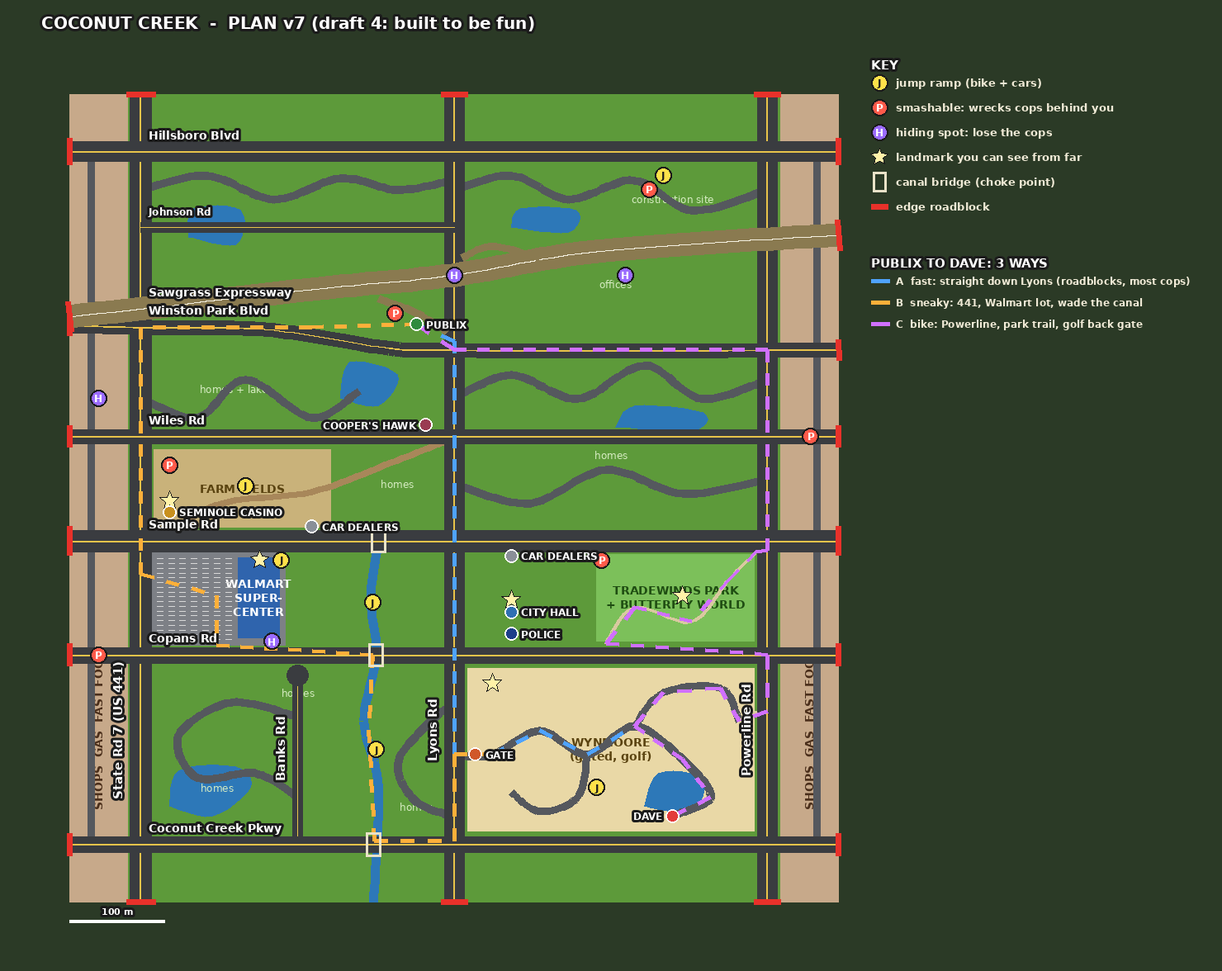
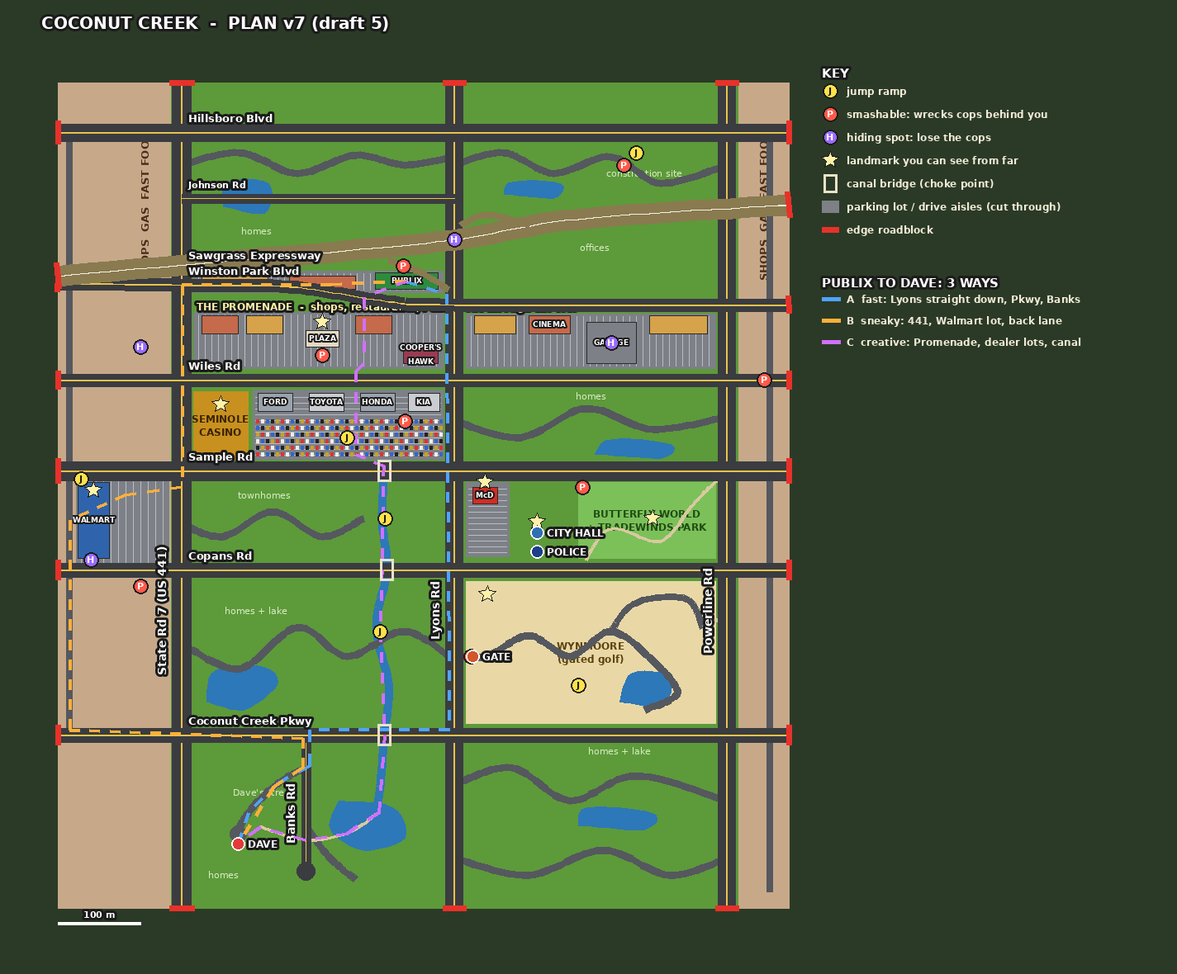
city-clone: plan v7 draft 5 (Walmart west of 441, Banks south of the Pkwy with Dave, car dealers, the Promenade, McDonald's at Sample & Lyons)
Claude-Session: https://claude.ai/code/session_01QbDoFPGu5z24oXZd8dk3Jx

diff --git a/city-clone/plan/v7/plan_v7.py b/city-clone/plan/v7/plan_v7.py
@@ -1,15 +1,17 @@
 """City plan v7 (round 37): the whole city re-laid from the user's description of the real Coconut Creek road grid + their Google Maps screenshots.
-The real city is long and skinny (~3 km x 9 km); the game keeps the real ORDER of roads but squares it up, then takes liberties so it is fun to drive.
-Draft 3 (user): Hammock Blvd removed; west of 441 and east of Powerline a strip of shops / gas / fast food, then roadblocks (the edge of the world);
-liberties L1..L8 are numbered so the user can keep or cut each one.
+The real city is long and skinny; the game keeps the real ORDER of roads, squares it up, then takes liberties so it is fun to drive (research: RESEARCH.md).
+Draft 5 (user): Walmart WEST of 441 (south of Sample); Banks Rd runs SOUTH off Coconut Creek Pkwy and Dave lives off it; car dealers fill the Sample-Wiles band
+west of Lyons (casino stays at 441 & Sample); Cooper's Hawk stays (restaurant row); the whole Wiles-to-Sawgrass band is THE PROMENADE (lots of shops, Publix at
+the NW corner of Lyons & Winston Park); McDonald's on the corner of Sample & Lyons in the City Hall block; Butterfly World. The fun is cutting through the parking
+aisles and drive lanes around the buildings.
 Coordinates in metres: x east, y north, origin = Lyons Rd at Coconut Creek Pkwy. Run: python3 plan_v7.py -> plan_v7.png"""
 from PIL import Image, ImageDraw, ImageFont
 import math, os
 
-X441, XBANKS, XLYONS, XPOWER = -330, -165, 0, 330
+X441, XBANKS, XLYONS, XPOWER = -330, -180, 0, 330
 Y = dict(pkwy=0, copans=200, sample=320, wiles=430, winston=525, johnson=650, hillsboro=730)
-EDGE = 75                                                     # how far the roads run past the outer roads before the edge roadblocks (the shop strips sit in there)
-def curve(pts, n=12):                                         # Catmull-Rom smoothing so curved roads read as curves
+XW, XE, YS, YN = X441 - 150, XPOWER + 75, -210, Y["hillsboro"] + 60          # west strip is wider (Walmart lives there); south band holds Banks Rd + Dave
+def curve(pts, n=12):
     out = []
     for i in range(len(pts) - 1):
         p0, p1, p2, p3 = pts[max(0, i - 1)], pts[i], pts[i + 1], pts[min(len(pts) - 1, i + 2)]
@@ -17,86 +19,85 @@ def curve(pts, n=12):                                         # Catmull-Rom smoo
             t = k / n; t2, t3 = t * t, t * t * t
             out.append(tuple(.5 * ((2 * p1[j]) + (-p0[j] + p2[j]) * t + (2 * p0[j] - 5 * p1[j] + 4 * p2[j] - p3[j]) * t2 + (-p0[j] + 3 * p1[j] - 3 * p2[j] + p3[j]) * t3) for j in (0, 1)))
     out.append(pts[-1]); return out
-XW, XE, YS, YN = X441 - EDGE, XPOWER + EDGE, Y["pkwy"] - 60, Y["hillsboro"] + 60
-# ---- roads: name, polyline, width m, kind: art (arterial), col (collector), hwy (expressway), loc (neighbourhood street), dirt, trail ----
+SAW = curve([(XW, 556), (-150, 585), (XLYONS, 600), (150, 625), (XE, 642)])
+# ---- roads: name, polyline, width m, kind ----
 ROADS = [
     ("State Rd 7 (US 441)", [(X441, YS), (X441, YN)], 24, "art"),
-    ("Banks Rd", [(XBANKS, Y["pkwy"]), (XBANKS, 178)], 12, "col"),            # user: only reachable from Coconut Creek Pkwy (a dead end with a cul-de-sac)
     ("Lyons Rd", [(XLYONS, YS), (XLYONS, YN)], 22, "art"),
     ("Powerline Rd", [(XPOWER, YS), (XPOWER, YN)], 22, "art"),
+    ("Banks Rd", [(XBANKS, Y["pkwy"]), (XBANKS, -165)], 12, "col"),          # user: you turn SOUTH off the Pkwy onto Banks; Dave lives off it (dead end)
     ("Coconut Creek Pkwy", [(XW, Y["pkwy"]), (XE, Y["pkwy"])], 18, "art"),
     ("Copans Rd", [(XW, Y["copans"]), (XE, Y["copans"])], 18, "art"),
     ("Sample Rd", [(XW, Y["sample"]), (XE, Y["sample"])], 24, "art"),
     ("Wiles Rd", [(XW, Y["wiles"]), (XE, Y["wiles"])], 16, "art"),
     ("Winston Park Blvd", curve([(XW, Y["winston"] + 22), (X441, Y["winston"] + 20), (-200, Y["winston"] + 18), (-80, Y["winston"]), (XLYONS, Y["winston"] - 4), (XE, Y["winston"] - 4)]), 16, "art"),
-    ("Sawgrass Expressway", curve([(XW, 556), (-150, 585), (XLYONS, 600), (150, 625), (XE, 642)]), 26, "hwy"),
+    ("Sawgrass Expressway", SAW, 26, "hwy"),
     ("Johnson Rd", [(X441, Y["johnson"]), (XLYONS, Y["johnson"])], 12, "col"),
     ("Hillsboro Blvd", [(XW, Y["hillsboro"]), (XE, Y["hillsboro"])], 22, "art"),
-    # shop strips: a service lane behind the shops on each side (L1)
-    ("", [(X441 - 52, Y["pkwy"]), (X441 - 52, Y["hillsboro"])], 8, "loc"),
-    ("", [(XPOWER + 52, Y["pkwy"]), (XPOWER + 52, Y["hillsboro"])], 8, "loc"),
-    # L2 farm-field dirt track: casino corner to Lyons & Wiles, cutting the corner
-    ("", curve([(-300, Y["sample"] + 8), (-245, 360), (-150, 372), (-60, 405), (-12, Y["wiles"] - 6)]), 7, "dirt"),
-    # L3 neighbourhood loops: curvy streets that link two arterials (shortcuts and hiding places)
-    ("", curve([(XLYONS, 150), (-30, 125), (-60, 85), (-40, 45), (XLYONS, 30)]), 9, "loc"),
-    ("", curve([(XBANKS, 50), (-210, 75), (-270, 70), (-290, 115), (-235, 150), (XBANKS, 135)]), 9, "loc"),
-    ("", curve([(XLYONS, 470), (60, 495), (130, 470), (200, 505), (260, 470), (XPOWER, 490)]), 9, "loc"),
-    ("", curve([(X441, 470), (-270, 450), (-220, 490), (-150, 450), (-100, 478)]), 9, "loc"),
+    # back lanes behind the shop strips
+    ("", [(XW + 14, Y["pkwy"]), (XW + 14, Y["hillsboro"])], 8, "loc"),
+    ("", [(XPOWER + 52, YS + 20), (XPOWER + 52, Y["hillsboro"])], 8, "loc"),
+    # neighbourhood streets
+    ("", curve([(X441, 110), (-260, 80), (-190, 130), (-130, 95), (-60, 125), (XLYONS, 90)]), 9, "loc"),          # 441 <-> Lyons, fords the canal
+    ("", curve([(X441, 255), (-280, 240), (-220, 270), (-160, 240), (-110, 262)]), 9, "loc"),
+    ("", curve([(XLYONS, 380), (80, 360), (160, 395), (240, 370), (XPOWER, 385)]), 9, "loc"),
     ("", curve([(XLYONS, 690), (60, 705), (120, 680), (190, 700), (250, 668), (XPOWER, 690)]), 9, "loc"),
     ("", curve([(X441, 690), (-260, 705), (-190, 680), (-120, 702), (-60, 690), (XLYONS, 700)]), 9, "loc"),
-    ("", curve([(XLYONS, 380), (80, 360), (160, 395), (240, 370), (XPOWER, 385)]), 9, "loc"),
-    # L5 Tradewinds park trail: narrow, bikes squeeze through, cars barely
-    ("", curve([(160, Y["copans"] + 12), (190, 250), (250, 235), (290, 280), (318, Y["sample"] - 12)]), 4, "trail"),
-    # L6 Wynmoore: one gated entrance off Lyons, winding streets, Dave at the far end
+    # south band: Dave's street off Banks (a loop with a cul-de-sac) + the east neighbourhood
+    ("", curve([(XBANKS, -40), (-215, -60), (-250, -95), (-262, -120)]), 9, "loc"),
+    ("", curve([(XBANKS, -110), (-150, -150), (-120, -175)]), 9, "loc"),
+    ("", curve([(XLYONS, -60), (70, -40), (140, -80), (220, -50), (XPOWER, -80)]), 9, "loc"),
+    ("", curve([(XLYONS, -150), (90, -170), (180, -140), (260, -170), (XPOWER, -150)]), 9, "loc"),
+    # trails (bike fits, cars barely)
+    ("", curve([(160, Y["copans"] + 12), (190, 250), (250, 235), (290, 280), (318, Y["sample"] - 12)]), 4, "trail"),   # Tradewinds / Butterfly World
+    ("", curve([(-92, -95), (-130, -120), (-180, -128), (-235, -112)]), 4, "trail"),                                 # lake path to Dave's street
+    ("", curve([(XPOWER, 140), (316, 138), (300, 130)]), 5, "trail"),                                                # Wynmoore golf-cart back gate
+    # Wynmoore streets (gated golf community, one gate on Lyons)
     ("", curve([(XLYONS, 95), (40, 95), (90, 120), (140, 95), (190, 125), (240, 90), (270, 50), (230, 30)]), 9, "loc"),
-    ("", curve([(140, 95), (130, 50), (90, 35), (60, 55)]), 8, "loc"),
     ("", curve([(190, 125), (220, 160), (280, 165), (300, 130)]), 8, "loc"),
-    # L7 Sawgrass on/off ramps at Lyons (the expressway is raised; ramps are the only way on)
-    ("", curve([(-80, 575), (-40, 560), (-8, 540)]), 8, "ramp"),
-    ("", curve([(8, 618), (40, 630), (90, 618)]), 8, "ramp"),
+    # Sawgrass ramps at Lyons
+    ("", curve([(-80, 575), (-40, 560), (-8, 540)]), 8, "ramp"), ("", curve([(8, 618), (40, 630), (90, 618)]), 8, "ramp"),
 ]
-ROADS += [("", [(X441, 235), (-320, 235)], 8, "loc"), ("", [(X441, 285), (-320, 285)], 8, "loc"), ("", [(-290, Y["sample"]), (-290, 310)], 8, "loc")]   # Walmart lot entrances (two off 441, one off Sample)
-ROUNDABOUTS = []
-CULS = [(XBANKS, 178, 11)]
-# ---- draft 4 (research: what makes driving maps fun) ----
-ROADS += [("", curve([(XPOWER, 140), (316, 138), (300, 130)]), 5, "trail")]          # golf-cart back gate into Wynmoore off Powerline (narrow: bikes easy, cars squeeze)
-JUMPS = [(-82, 100), (-86, 255), (-182, 300), (-220, 378), (220, 705), (150, 60)]   # canal banks x2, Walmart loading dock, farm hay-bale ramp, construction site, golf mound
-BREAKERS = [(XPOWER + 45, 430), (X441 - 45, 200), (-300, 400), (205, 690), (155, 300), (-62, 560)]   # gas pumps x2, fruit stand, scaffolding, Butterfly World sign, Publix cart corral
-HIDES = [(X441 - 45, 470), (180, 600), (0, 600), (-192, 214)]                       # car wash, parking garage, under the Sawgrass overpass, Walmart garden centre
-STARS = [(-300, 362), (240, 262), (60, 258), (40, 170), (-205, 300)]                 # casino tower, Butterfly World dome, City Hall clock, Wynmoore water tower, Walmart sign
-BRIDGES = [(-85, Y["pkwy"]), (-82, Y["copans"]), (-80, Y["sample"])]
-ROUTES = [  # Publix -> Dave: three real choices (label, colour, polyline)
-    ("A  fast: straight down Lyons (roadblocks, most cops)", "#4fa3ff", [(-40, 548), (0, 530), (0, 95), (40, 95), (90, 120), (140, 95), (190, 125), (240, 90), (270, 50), (230, 30)]),
-    ("B  sneaky: 441, Walmart lot, wade the canal", "#ffb03a", [(-40, 548), (-150, 545), (-330, 545), (-330, 285), (-250, 262), (-250, 210), (-86, 200), (-90, 120), (-84, 4), (0, 4), (0, 95), (40, 95)]),
-    ("C  bike: Powerline, park trail, golf back gate", "#d070ff", [(-40, 548), (0, 521), (330, 521), (330, 310), (318, 308), (290, 280), (250, 235), (190, 250), (160, 212), (330, 200), (330, 140), (300, 130), (280, 165), (220, 160), (190, 125), (240, 90), (270, 50), (230, 30)]),
+CULS = [(XBANKS, -165, 11), (-262, -120, 10)]
+CANAL = [(-85, Y["sample"]), (-88, 260), (-82, 200), (-95, 130), (-80, 60), (-85, 0), (-90, -60), (-95, -95)]      # Sample -> south of the Pkwy, ends in the lake by Dave's
+def R(x0, y0, x1, y1): return [(x0, y0), (x1, y0), (x1, y1), (x0, y1)]
+ZONES = [  # (label, polygon, fill, text colour) drawn in order
+    ("SHOPS  GAS  FAST FOOD", R(XW, YS, X441 - 14, YN), "#c7a98a", "#4a2e1a"),
+    ("SHOPS  GAS  FAST FOOD", R(XPOWER + 14, YS, XE, YN), "#c7a98a", "#4a2e1a"),
+    ("WYNMOORE\n(gated golf)", R(14, 14, 316, 186), "#e9d8a6", "#5a4310"),
+    ("BUTTERFLY WORLD\n+ TRADEWINDS PARK", R(150, 214, 316, 306), "#7cc05a", "#1f4d12"),
+    ("SEMINOLE\nCASINO", R(-316, 334, -250, 416), "#c8901e", "#3a2405"),
 ]
-# canal (L8): runs north-south between Banks and Lyons from Pkwy to Sample, crossed by bridges on each arterial; you can wade it or jump it on the bike
-CANAL = [(-85, Y["pkwy"] - 60), (-80, 60), (-95, 130), (-82, 200), (-88, 260), (-80, Y["sample"])]
-ZONES = [  # label, polygon, fill, text colour
-    ("", [(-320, 210), (-178, 210), (-178, 310), (-320, 310)], "#7d8086", "#ffffff"),                      # user: Super Walmart on the east side of 441 (front lot along 441), south of Sample
-    ("WALMART\nSUPER-\nCENTER", [(-228, 218), (-184, 218), (-184, 302), (-228, 302)], "#2f64ad", "#ffffff"),
-    ("WYNMOORE\n(gated, golf)", [(14, 14), (316, 14), (316, 186), (14, 186)], "#e9d8a6", "#5a4310"),
-    ("FARM FIELDS", [(-316, 334), (-130, 334), (-130, 416), (-316, 416)], "#c9b27a", "#5a4310"),
-    ("TRADEWINDS PARK\n+ BUTTERFLY WORLD", [(150, 214), (316, 214), (316, 306), (150, 306)], "#7cc05a", "#1f4d12"),
-    ("SHOPS  GAS  FAST FOOD", [(XW, YS), (X441 - 14, YS), (X441 - 14, YN), (XW, YN)], "#c7a98a", "#4a2e1a"),
-    ("SHOPS  GAS  FAST FOOD", [(XPOWER + 14, YS), (XE, YS), (XE, YN), (XPOWER + 14, YN)], "#c7a98a", "#4a2e1a"),
+# parking lots = the cut-through areas: (polygon, buildings [(x0, y0, x1, y1, colour, label)], aisle step, aisle direction)
+LOTS = [
+    (R(XW + 22, 206, X441 - 16, 314), [(XW + 24, 214, XW + 62, 306, "#2f64ad", "WALMART")], 9, "v"),                            # user: Walmart west of 441, giant lot facing 441
+    (R(-244, 334, -14, 418), [(-238, 392, -196, 414, "#9aa3ad", "FORD"), (-176, 392, -134, 414, "#c9ccd1", "TOYOTA"), (-114, 392, -72, 414, "#9aa3ad", "HONDA"), (-56, 392, -18, 414, "#c9ccd1", "KIA")], 7, "h"),   # car dealers
+    (R(-316, 444, -14, 512), [(-306, 486, -262, 508, "#c56a4a", ""), (-252, 486, -208, 508, "#d6a24a", ""), (-180, 470, -140, 490, "#e4d9c2", "PLAZA"), (-120, 486, -76, 508, "#c56a4a", ""), (-62, 450, -20, 470, "#9a3b52", "COOPER'S\nHAWK")], 8, "v"),
+    (R(14, 444, 316, 510), [(24, 486, 74, 508, "#d6a24a", ""), (90, 486, 140, 508, "#c56a4a", "CINEMA"), (160, 450, 220, 500, "#7d8086", "GARAGE"), (236, 486, 306, 508, "#d6a24a", "")], 8, "v"),
+    (R(-316, 536, -14, 562), [(-96, 540, -20, 560, "#2e8b3e", "PUBLIX"), (-200, 540, -120, 556, "#c56a4a", ""), (-306, 540, -226, 556, "#d6a24a", "")], 8, "v"),
+    (R(14, 216, 66, 306), [(22, 280, 52, 300, "#d22d24", "McD")], 7, "h"),                                                      # McDonald's on the corner of Sample & Lyons
 ]
-LAKES = [[(-300, 40), (-255, 30), (-215, 60), (-230, 82), (-290, 78)], [(-120, 470), (-80, 462), (-60, 495), (-110, 508)], [(170, 440), (250, 435), (262, 455), (190, 462)],
-         [(60, 650), (120, 645), (128, 668), (70, 670)], [(200, 40), (250, 35), (262, 70), (215, 75)], [(-280, 640), (-230, 632), (-225, 668), (-275, 670)]]
-SPOTS = [  # label, x, y, colour, side
-    ("PUBLIX", -40, 548, "#2e8b3e", 1), ("POLICE", 60, 222, "#1d3f8a", 1), ("CITY HALL", 60, 245, "#2f6fb3", 1),
-    ("SEMINOLE CASINO", -300, 350, "#c8901e", 1), ("CAR DEALERS", -150, 335, "#8a8f98", 1), ("CAR DEALERS", 60, 304, "#8a8f98", 1),
-    ("COOPER'S HAWK", -30, 442, "#9a3b52", -1), ("GATE", 22, 95, "#d0582a", 1), ("DAVE", 230, 30, "#e33b3b", -1),
+LAKES = [[(-300, 40), (-255, 30), (-215, 60), (-230, 82), (-290, 78)], [(170, 340), (250, 335), (262, 352), (190, 358)], [(60, 655), (120, 650), (128, 668), (70, 670)],
+         [(200, 40), (250, 35), (262, 70), (215, 75)], [(-280, 640), (-230, 632), (-225, 668), (-275, 670)], [(-140, -80), (-75, -88), (-60, -125), (-110, -140), (-150, -115)],
+         [(150, -110), (230, -115), (240, -95), (160, -88)]]
+SPOTS = [("POLICE", 100, 222, "#1d3f8a", 1), ("CITY HALL", 100, 245, "#2f6fb3", 1), ("GATE", 22, 95, "#d0582a", 1), ("DAVE", -262, -132, "#e33b3b", 1)]
+JUMPS = [(-84, 262), (-90, 125), (XW + 28, 310), (220, 705), (150, 60), (-130, 360)]          # canal banks x2, Walmart loading dock, construction site, golf mound, car-carrier ramp at the dealers
+BREAKERS = [(XPOWER + 45, 430), (X441 - 50, 180), (-160, 460), (-60, 380), (-62, 568), (20, 95), (155, 300), (205, 690)]   # gas x2, plaza fountain, dealer cars, cart corral, Wynmoore gate arm, Butterfly World sign, scaffolding
+HIDES = [(X441 - 50, 470), (190, 475), (0, 600), (XW + 40, 212)]                                # car wash, Promenade garage, under the overpass, Walmart garden centre
+STARS = [(-283, 400), (240, 262), (100, 258), (40, 170), (XW + 43, 296), (-160, 500), (37, 306)]   # casino tower, Butterfly World dome, City Hall clock, Wynmoore water tower, Walmart sign, Promenade sign, golden arches
+BRIDGES = [(-85, Y["pkwy"]), (-82, Y["copans"]), (-85, Y["sample"])]
+TXT = [("homes + lake", -240, 150), ("townhomes", -230, 290), ("homes", 165, 410), ("homes", -240, 610), ("construction site", 230, 680), ("offices", 170, 590),
+       ("Dave's street", -232, -70), ("homes + lake", 200, -20), ("homes", -280, -170), ("homes", 90, 610)]
+DAVE = (-262, -132); PUBLIX = (-58, 549)
+ROUTES = [
+    ("A  fast: Lyons straight down, Pkwy, Banks", "#4fa3ff", [PUBLIX, (-10, 534), (-6, 6), (-176, 6), (-176, -38), (-215, -60), (-250, -95), DAVE]),
+    ("B  sneaky: 441, Walmart lot, back lane", "#ffb03a", [PUBLIX, (-150, 545), (X441, 545), (X441, 300), (XW + 80, 290), (XW + 14, 260), (XW + 14, 6), (-184, -4), (-184, -40), (-220, -64), DAVE]),
+    ("C  creative: Promenade, dealer lots, canal", "#d070ff", [PUBLIX, (-110, 530), (-110, 450), (-120, 440), (-120, 340), (-86, 326), (-88, 200), (-90, 125), (-85, 0), (-92, -95), (-130, -120), (-180, -128), (-235, -112), DAVE]),
 ]
-TAGS = [("L1", X441 - 52, 600), ("L1", XPOWER + 52, 600), ("L2", -150, 372), ("L3", -60, 80), ("L3", 130, 470), ("L4", XBANKS, 178), ("L5", 250, 235),
-        ("L6", 190, 125), ("L7", -40, 560), ("L8", -95, 130)]
-RES = [("homes + lakes", -230, 480), ("homes", 165, 410), ("homes", -60, 380), ("homes", -250, 60), ("homes", -40, 40), ("construction site", 230, 680), ("offices", 170, 590), ("homes", -165, 160)]
-LEGEND = ["L1  service lane behind the shop strips", "L2  dirt track across the farm fields", "L3  curvy neighbourhood streets (shortcuts)", "L4  (cut) Banks Rd: dead end, only from the Pkwy",
-          "L5  park trail (bike fits, cars barely)", "L6  Wynmoore: one gate, winding streets, Dave", "L7  Sawgrass raised, on/off ramps at Lyons", "L8  canal with bridges (wade / jump)", "red bars = edge roadblocks"]
 
-S = 1.15; PAD = 50
-X0, X1, Y0, Y1 = XW - 30, XE + 30, YS - 30, YN + 30
-W, H = int((X1 - X0) * S) + 2 * PAD + 380, int((Y1 - Y0) * S) + 2 * PAD + 30
+S = 1.0; PAD = 50
+X0, X1, Y0, Y1 = XW - 20, XE + 20, YS - 30, YN + 20
+W, H = int((X1 - X0) * S) + 2 * PAD + 400, int((Y1 - Y0) * S) + 2 * PAD + 30
 P = lambda x, y: (PAD + (x - X0) * S, PAD + 30 + (Y1 - y) * S)
 def font(sz, bold=True): return ImageFont.truetype("/usr/share/fonts/truetype/dejavu/DejaVuSans-Bold.ttf" if bold else "/usr/share/fonts/truetype/dejavu/DejaVuSans.ttf", sz)
 im = Image.new("RGB", (W, H), "#2b3a26"); d = ImageDraw.Draw(im)
@@ -106,27 +107,33 @@ for (lab, poly, col, tc) in ZONES:
     d.polygon([P(*p) for p in poly], fill=col)
     cx = sum(p[0] for p in poly) / len(poly); cy = sum(p[1] for p in poly) / len(poly)
     if "SHOPS" in lab:
-        t = Image.new("RGBA", (500, 30), (0, 0, 0, 0)); ImageDraw.Draw(t).text((250, 15), lab, fill=tc, font=font(14), anchor="mm"); t = t.rotate(90, expand=True)
-        a, b = P(cx, 120); im.paste(t, (int(a - 15), int(b - 250)), t)
-    else: d.multiline_text(P(cx, cy), lab, fill=tc, font=font(14), anchor="mm", align="center")
-for col_ in range(7):                                         # Walmart parking rows (the lot faces 441)
-    xx = -310 + col_ * 12
-    for yy in range(216, 306, 5): d.line([P(xx - 3, yy), P(xx + 3, yy)], fill="#d8d8d8", width=1)
+        t = Image.new("RGBA", (500, 30), (0, 0, 0, 0)); ImageDraw.Draw(t).text((250, 15), lab, fill=tc, font=font(13), anchor="mm"); t = t.rotate(90, expand=True)
+        a, b = P(cx if cx > 0 else X441 - 45, 640); im.paste(t, (int(a - 15), int(b - 250)), t)
+    else: d.multiline_text(P(cx, cy), lab, fill=tc, font=font(12), anchor="mm", align="center")
+for (poly, blds, step, dirn) in LOTS:
+    d.polygon([P(*p) for p in poly], fill="#7d8086")
+    xs = [p[0] for p in poly]; ys = [p[1] for p in poly]; x0, x1, y0, y1 = min(xs), max(xs), min(ys), max(ys)
+    if dirn == "v":
+        for xx in range(int(x0) + 6, int(x1) - 4, step): d.line([P(xx, y0 + 3), P(xx, y1 - 3)], fill="#b9bcc2", width=1)
+    else:
+        for yy in range(int(y0) + 5, int(y1) - 3, step): d.line([P(x0 + 3, yy), P(x1 - 3, yy)], fill="#b9bcc2", width=1)
+    for (a, b, c, e, col, lab) in blds:
+        d.rectangle([P(a, e), P(c, b)], fill=col, outline="#2b2b2b")
+        if lab: d.multiline_text(P((a + c) / 2, (b + e) / 2), lab, fill="white", font=font(9), anchor="mm", align="center", stroke_width=2, stroke_fill="#1b1b1b")
+for yy in range(340, 386, 8):                                   # dealer lots: rows of cars
+    for xx in range(-240, -16, 6): d.rectangle([P(xx, yy + 2), P(xx + 3.5, yy - 2)], fill=["#d33", "#eee", "#36c", "#222", "#c9a227"][(xx // 6 + yy) % 5])
+pa, pb = P(-316, 519); d.text((pa + 4, pb), "THE PROMENADE  -  shops, restaurants, Publix: cut through the lots", fill="#fff2a8", font=font(12), anchor="lm", stroke_width=3, stroke_fill="#1b1b1b")
 for L in LAKES: d.polygon([P(*p) for p in curve(L + L[:1], 6)], fill="#2d78b8")
 d.line([P(*p) for p in curve(CANAL)], fill="#2d78b8", width=int(10 * S))
-for (lab, x, y) in RES: d.text(P(x, y), lab, fill="#d6ecc2", font=font(12, False), anchor="mm")
-STY = {"art": ("#3a3c40", "#e8c34a"), "col": ("#3a3c40", "#e8c34a"), "hwy": ("#8a7a50", "#f4f0e0"), "loc": ("#55585e", None), "dirt": ("#a8875a", None), "trail": ("#d9c9a0", None), "ramp": ("#8a7a50", None)}
-for kind_pass in (("dirt", "trail", "loc"), ("col", "art"), ("ramp", "hwy")):
+for (lab, x, y) in TXT: d.text(P(x, y), lab, fill="#d6ecc2", font=font(11, False), anchor="mm")
+STY = {"art": ("#3a3c40", "#e8c34a"), "col": ("#3a3c40", "#e8c34a"), "hwy": ("#8a7a50", "#f4f0e0"), "loc": ("#55585e", None), "trail": ("#d9c9a0", None), "ramp": ("#8a7a50", None)}
+for kind_pass in (("trail", "loc"), ("col", "art"), ("ramp", "hwy")):
     for name, pts, w, kind in ROADS:
         if kind not in kind_pass: continue
         c, ln = STY[kind]; d.line([P(*p) for p in pts], fill=c, width=max(3, int(w * S)), joint="curve")
         if ln: d.line([P(*p) for p in pts], fill=ln, width=2 if kind != "col" else 1, joint="curve")
-for x, y, r in CULS:
-    a, b = P(x, y); R = r * S; d.ellipse([a - R, b - R, a + R, b + R], fill="#3a3c40")
-for x, y, r in ROUNDABOUTS:
-    a, b = P(x, y); R = r * S; d.ellipse([a - R, b - R, a + R, b + R], outline="#3a3c40", width=int(10 * S)); d.ellipse([a - R + 8, b - R + 8, a + R - 8, b + R - 8], fill="#7cc05a")
-# edge roadblocks: every road that reaches the edge
-for name, pts, w, kind in ROADS:
+for x, y, r in CULS: a, b = P(x, y); d.ellipse([a - r, b - r, a + r, b + r], fill="#3a3c40" if x == XBANKS else "#55585e")
+for name, pts, w, kind in ROADS:                                # edge roadblocks
     if kind not in ("art", "col", "hwy"): continue
     for q, prev in ((pts[0], pts[1]), (pts[-1], pts[-2])):
         if q[0] in (XW, XE) or q[1] in (YS, YN):
@@ -135,37 +142,36 @@ for name, pts, w, kind in ROADS:
 for name, pts, w, kind in ROADS:
     if not name: continue
     if pts[0][0] == pts[-1][0]:
-        t = Image.new("RGBA", (360, 36), (0, 0, 0, 0)); ImageDraw.Draw(t).text((180, 18), name, fill="white", font=font(15), anchor="mm", stroke_width=3, stroke_fill="#1b1b1b")
-        t = t.rotate(90, expand=True); cx, cy = P(pts[0][0], 120 if name != "Banks Rd" else 100); im.paste(t, (int(cx - t.width / 2 - w * S / 2 - 13), int(cy - t.height / 2)), t)
-    else: OUT(name, P(X441 + 8, (pts[0][1] if kind != "art" or "Winston" not in name else Y["winston"] + 20) + (13 if kind != "hwy" else 21)), 14 if kind != "col" else 12, anchor="ls")
-for (lab, col, pts) in ROUTES:                                 # chase routes, dashed
+        t = Image.new("RGBA", (360, 36), (0, 0, 0, 0)); ImageDraw.Draw(t).text((180, 18), name, fill="white", font=font(14), anchor="mm", stroke_width=3, stroke_fill="#1b1b1b")
+        t = t.rotate(90, expand=True); cx, cy = P(pts[0][0], 150 if name != "Banks Rd" else -95); im.paste(t, (int(cx - t.width / 2 - w * S / 2 - 12), int(cy - t.height / 2)), t)
+    else: OUT(name, P(X441 + 8, (pts[0][1] if "Winston" not in name else Y["winston"] + 20) + (12 if kind != "hwy" else 20)), 13 if kind != "col" else 11, anchor="ls")
+for (lab, col, pts) in ROUTES:
     q = [P(*p) for p in pts]
     for i in range(len(q) - 1):
-        (ax, ay), (bx, by) = q[i], q[i + 1]; L = math.hypot(bx - ax, by - ay); n = max(1, int(L / 14))
-        for k in range(0, n, 2): d.line([(ax + (bx - ax) * k / n, ay + (by - ay) * k / n), (ax + (bx - ax) * min(n, k + 1) / n, ay + (by - ay) * min(n, k + 1) / n)], fill=col, width=5)
-def badge(x, y, txt, fill, fg="#1b1b1b", r=10):
-    cx, cy = P(x, y); d.ellipse([cx - r, cy - r, cx + r, cy + r], fill=fill, outline="#1b1b1b", width=2); d.text((cx, cy), txt, fill=fg, font=font(12), anchor="mm")
-for x, y in BRIDGES: cx, cy = P(x, y); d.rectangle([cx - 9, cy - 14, cx + 9, cy + 14], outline="#e9e2c8", width=3)
+        (ax, ay), (bx, by) = q[i], q[i + 1]; L = math.hypot(bx - ax, by - ay); n = max(1, int(L / 12))
+        for k in range(0, n, 2): d.line([(ax + (bx - ax) * k / n, ay + (by - ay) * k / n), (ax + (bx - ax) * min(n, k + 1) / n, ay + (by - ay) * min(n, k + 1) / n)], fill=col, width=4)
+def badge(x, y, txt, fill, fg="#1b1b1b", r=9):
+    cx, cy = P(x, y); d.ellipse([cx - r, cy - r, cx + r, cy + r], fill=fill, outline="#1b1b1b", width=2); d.text((cx, cy), txt, fill=fg, font=font(11), anchor="mm")
+def star(cx, cy, r=11): d.polygon([(cx + (r if k % 2 == 0 else r * .45) * math.sin(k * math.pi / 5), cy - (r if k % 2 == 0 else r * .45) * math.cos(k * math.pi / 5)) for k in range(10)], fill="#fff2a8", outline="#1b1b1b")
+for x, y in BRIDGES: cx, cy = P(x, y); d.rectangle([cx - 8, cy - 13, cx + 8, cy + 13], outline="#e9e2c8", width=3)
 for x, y in JUMPS: badge(x, y, "J", "#ffe14a")
 for x, y in BREAKERS: badge(x, y, "P", "#ff5a4a", "white")
 for x, y in HIDES: badge(x, y, "H", "#9a6bff", "white")
-for x, y in STARS:
-    cx, cy = P(x, y); pts_ = [(cx + (12 if k % 2 == 0 else 5) * math.sin(k * math.pi / 5), cy - (12 if k % 2 == 0 else 5) * math.cos(k * math.pi / 5)) for k in range(10)]; d.polygon(pts_, fill="#fff2a8", outline="#1b1b1b")
+for x, y in STARS: star(*P(x, y))
 for (lab, x, y, col, side) in SPOTS:
     cx, cy = P(x, y); d.ellipse([cx - 8, cy - 8, cx + 8, cy + 8], fill=col, outline="white", width=2); OUT(lab, (cx + 12 * side, cy), 12, anchor="lm" if side > 0 else "rm")
-OUT("COCONUT CREEK  -  PLAN v7 (draft 4: built to be fun)", (PAD, 16), 20)
-lx = int(P(XE, 0)[0]) + 40; ly = PAD + 50
-def leg(i, draw, text):
-    y = ly + i * 30; draw(lx + 10, y); d.text((lx + 30, y), text, fill="#f0ead6", font=font(13), anchor="lm")
+OUT("COCONUT CREEK  -  PLAN v7 (draft 5)", (PAD, 16), 20)
+lx = int(P(XE, 0)[0]) + 40; ly = PAD + 60
+def leg(i, draw, text): y = ly + i * 28; draw(lx + 10, y); d.text((lx + 30, y), text, fill="#f0ead6", font=font(12), anchor="lm")
 OUT("KEY", (lx, ly - 30), 15)
-for i, (txt, fill, fg, lab) in enumerate([("J", "#ffe14a", "#1b1b1b", "jump ramp (bike + cars)"), ("P", "#ff5a4a", "white", "smashable: wrecks cops behind you"), ("H", "#9a6bff", "white", "hiding spot: lose the cops")]):
-    def dr(x, y, t=txt, f=fill, g=fg): d.ellipse([x - 10, y - 10, x + 10, y + 10], fill=f, outline="#1b1b1b", width=2); d.text((x, y), t, fill=g, font=font(12), anchor="mm")
-    leg(i, dr, lab)
-leg(3, lambda x, y: d.polygon([(x + (11 if k % 2 == 0 else 5) * math.sin(k * math.pi / 5), y - (11 if k % 2 == 0 else 5) * math.cos(k * math.pi / 5)) for k in range(10)], fill="#fff2a8", outline="#1b1b1b"), "landmark you can see from far")
-leg(4, lambda x, y: d.rectangle([x - 8, y - 12, x + 8, y + 12], outline="#e9e2c8", width=3), "canal bridge (choke point)")
-leg(5, lambda x, y: d.line([(x - 10, y), (x + 10, y)], fill="#e8312a", width=7), "edge roadblock")
-OUT("PUBLIX TO DAVE: 3 WAYS", (lx, ly + 7 * 30), 15)
+for i, (t, f, g, lab) in enumerate([("J", "#ffe14a", "#1b1b1b", "jump ramp"), ("P", "#ff5a4a", "white", "smashable: wrecks cops behind you"), ("H", "#9a6bff", "white", "hiding spot: lose the cops")]):
+    leg(i, lambda x, y, t=t, f=f, g=g: (d.ellipse([x - 9, y - 9, x + 9, y + 9], fill=f, outline="#1b1b1b", width=2), d.text((x, y), t, fill=g, font=font(11), anchor="mm")), lab)
+leg(3, lambda x, y: star(x, y), "landmark you can see from far")
+leg(4, lambda x, y: d.rectangle([x - 8, y - 11, x + 8, y + 11], outline="#e9e2c8", width=3), "canal bridge (choke point)")
+leg(5, lambda x, y: d.rectangle([x - 10, y - 7, x + 10, y + 7], fill="#7d8086"), "parking lot / drive aisles (cut through)")
+leg(6, lambda x, y: d.line([(x - 10, y), (x + 10, y)], fill="#e8312a", width=7), "edge roadblock")
+OUT("PUBLIX TO DAVE: 3 WAYS", (lx, ly + 8 * 28), 15)
 for i, (lab, col, pts) in enumerate(ROUTES):
-    y = ly + 8 * 30 + i * 26; d.line([(lx, y), (lx + 22, y)], fill=col, width=5); d.text((lx + 30, y), lab, fill="#f0ead6", font=font(12), anchor="lm")
-sx, sy = P(XW, YS - 20); d.line([(sx, sy), (sx + 100 * S, sy)], fill="white", width=4); OUT("100 m", (sx + 50 * S, sy - 11), 11, anchor="mm")
+    y = ly + 9 * 28 + i * 26; d.line([(lx, y), (lx + 22, y)], fill=col, width=5); d.text((lx + 30, y), lab, fill="#f0ead6", font=font(12), anchor="lm")
+sx, sy = P(XW, YS - 18); d.line([(sx, sy), (sx + 100 * S, sy)], fill="white", width=4); OUT("100 m", (sx + 50 * S, sy - 10), 11, anchor="mm")
 im.save(os.path.join(os.path.dirname(os.path.abspath(__file__)), "plan_v7.png")); print(W, H)
